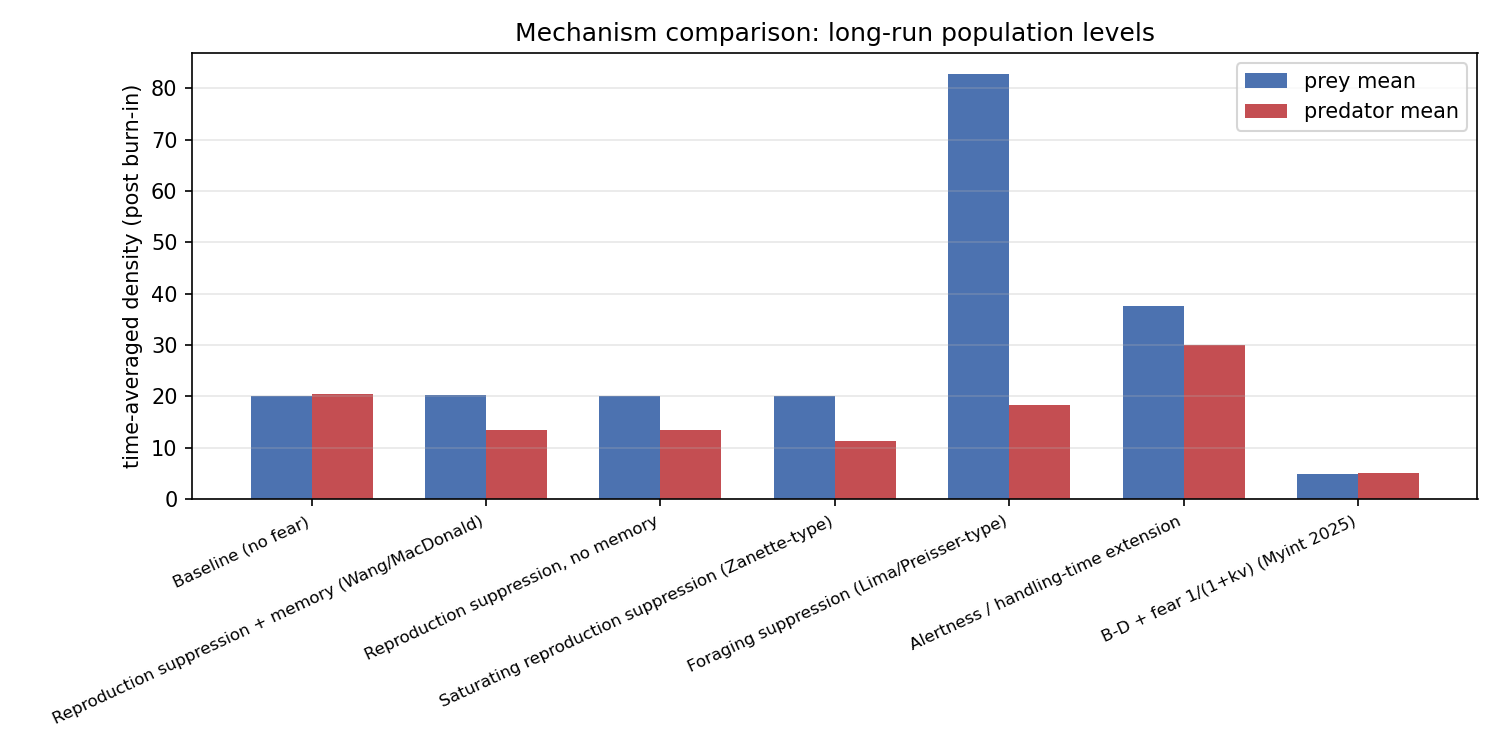
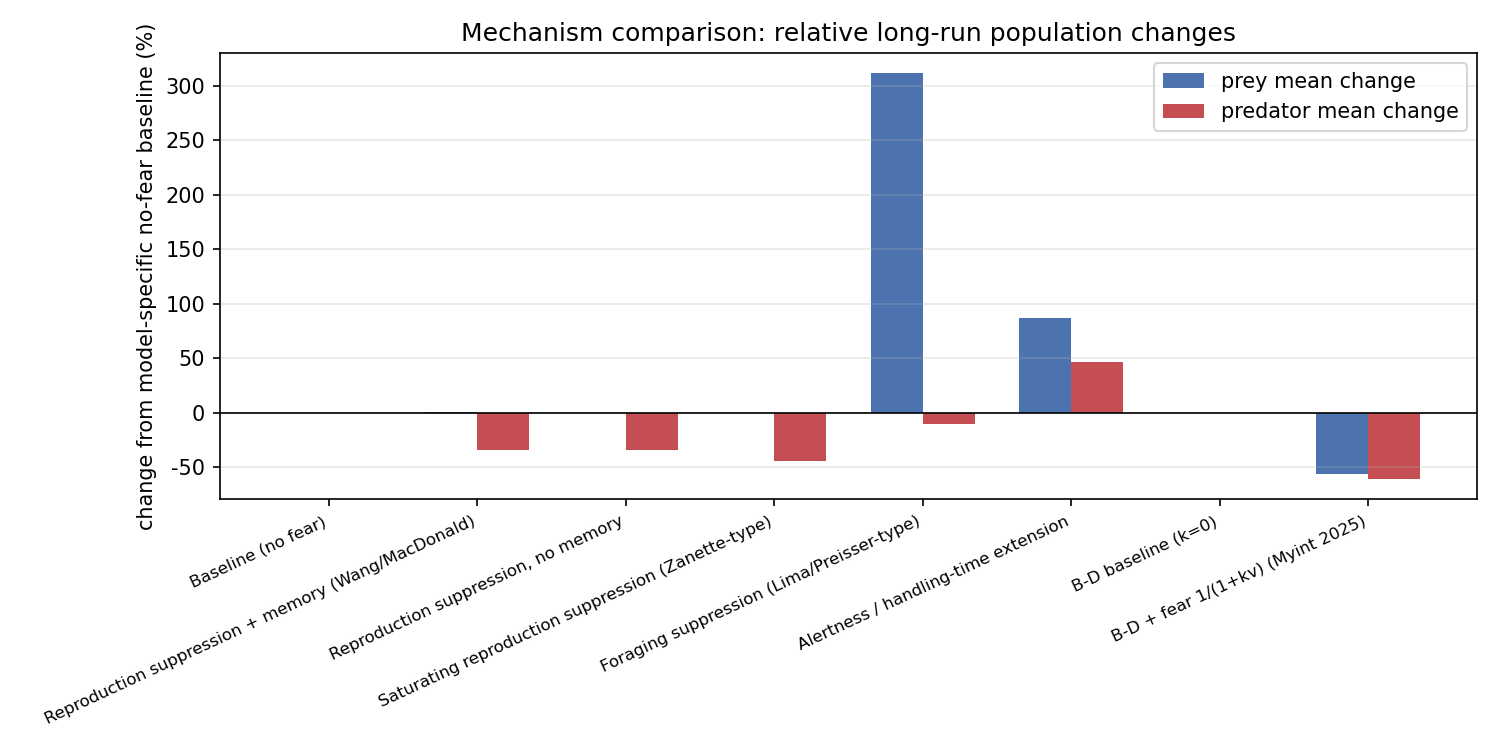
fix(analysis): compare fear mechanisms to model baselines

diff --git a/src/visualize.py b/src/visualize.py
@@ -144,42 +144,42 @@ def plot_mechanism_comparison(
     labels: dict[MechanismId, str],
     out: Path,
 ) -> None:
-    """Literature mechanisms: prey/predator time series."""
-    fig, axes = plt.subplots(2, 1, figsize=(10, 7), sharex=True)
+    """Absolute time series split by model scale; not a cross-family comparison."""
+    fig, axes = plt.subplots(2, 2, figsize=(13, 7), sharex="col")
     for mid, sol in solutions.items():
         lab = labels.get(mid, mid.value)
-        axes[0].plot(sol.t, sol.y[0], lw=1.2, label=lab)
-        axes[1].plot(sol.t, sol.y[1], lw=1.2, label=lab)
-    axes[0].set_ylabel("prey x")
-    axes[0].legend(fontsize=7, loc="upper right")
-    axes[0].grid(True, alpha=0.3)
-    axes[1].set_ylabel("predator y")
-    axes[1].set_xlabel("time t")
-    axes[1].legend(fontsize=7, loc="upper right")
-    axes[1].grid(True, alpha=0.3)
-    fig.suptitle("Literature mechanisms: alternative fear formulations")
+        col = 1 if mid in (MechanismId.BDA_BASELINE, MechanismId.BDA_FEAR) else 0
+        axes[0, col].plot(sol.t, sol.y[0], lw=1.2, label=lab)
+        axes[1, col].plot(sol.t, sol.y[1], lw=1.2, label=lab)
+    for col, family in enumerate(("Holling II (x, y scale)", "B-D (u, v scale)")):
+        axes[0, col].set_title(family)
+        axes[0, col].set_ylabel("prey density")
+        axes[1, col].set_ylabel("predator density")
+        axes[1, col].set_xlabel("time t")
+        for row in range(2):
+            axes[row, col].legend(fontsize=7, loc="best")
+            axes[row, col].grid(True, alpha=0.3)
+    fig.suptitle("Absolute mechanism trajectories (separate model scales)")
     fig.tight_layout()
     fig.savefig(out, dpi=150)
     plt.close(fig)
 
 
 def plot_mechanism_bars(compare_rows: dict[str, list], out: Path) -> None:
-    """Long-run mean density by mechanism."""
+    """Long-run mean changes relative to each model family's no-fear baseline."""
     labels = compare_rows["label"]
     x = np.arange(len(labels))
     w = 0.35
-    x_means = compare_rows["x_mean"]
-    y_means = compare_rows["y_mean"]
+    x_means = compare_rows["x_mean_change_pct"]
+    y_means = compare_rows["y_mean_change_pct"]
     fig, ax = plt.subplots(figsize=(10, 5))
-    ax.bar(x - w / 2, x_means, w, label="prey mean", color="#4C72B0")
-    ax.bar(x + w / 2, y_means, w, label="predator mean", color="#C44E52")
-    for i, ym in enumerate(y_means):
-        if ym < 1.0:
-            ax.text(i + w / 2, max(ym, 0.5), f"ȳ={ym:.2g}", ha="center", va="bottom", fontsize=7, color="#8B0000")
+    ax.bar(x - w / 2, x_means, w, label="prey mean change", color="#4C72B0")
+    ax.bar(x + w / 2, y_means, w, label="predator mean change", color="#C44E52")
+    ax.axhline(0.0, color="black", lw=0.8)
     ax.set_xticks(x)
     ax.set_xticklabels(labels, rotation=25, ha="right", fontsize=8)
-    ax.set_ylabel("time-averaged density (post burn-in)")
-    ax.set_title("Mechanism comparison: long-run population levels")
+    ax.set_ylabel("change from model-specific no-fear baseline (%)")
+    ax.set_title("Mechanism comparison: relative long-run population changes")
     ax.legend()
     ax.grid(True, axis="y", alpha=0.3)
     fig.tight_layout()
@@ -188,11 +188,12 @@ def plot_mechanism_bars(compare_rows: dict[str, list], out: Path) -> None:
 
 
 def plot_amplitude_comparison(compare_rows: dict[str, list], out: Path) -> None:
-    """Prey oscillation amplitude (Wang 2019: fear may damp cycles)."""
+    """Prey relative-amplitude change from each model family's no-fear baseline."""
     fig, ax = plt.subplots(figsize=(9, 4.5))
-    ax.bar(compare_rows["label"], compare_rows["amplitude_x"], color="#55A868")
-    ax.set_ylabel("prey oscillation amplitude (tail max-min)")
-    ax.set_title("Mechanism comparison: prey oscillation amplitude")
+    ax.bar(compare_rows["label"], compare_rows["relative_amplitude_x_change_pct"], color="#55A868")
+    ax.axhline(0.0, color="black", lw=0.8)
+    ax.set_ylabel("change in prey relative amplitude A/mean (%)")
+    ax.set_title("Mechanism comparison: relative oscillation change")
     plt.xticks(rotation=25, ha="right", fontsize=8)
     ax.grid(True, axis="y", alpha=0.3)
     fig.tight_layout()

diff --git a/src/analysis.py b/src/analysis.py
@@ -85,32 +85,81 @@ def compare_mechanisms(
     t_end: float = 100.0,
     mechanisms: tuple[MechanismId, ...] | None = None,
 ) -> dict[str, list]:
-    """比较各文献机制的长期平均密度与动力学类型。"""
+    """按各模型体系自己的无恐惧基线比较长期均值与相对振幅。"""
     if mechanisms is None:
         mechanisms = tuple(MechanismId)
 
     rows: dict[str, list] = {
         "mechanism": [],
         "label": [],
+        "model_family": [],
+        "baseline_mechanism": [],
         "x_mean": [],
         "y_mean": [],
         "status": [],
         "amplitude_x": [],
+        "amplitude_y": [],
+        "relative_amplitude_x": [],
+        "relative_amplitude_y": [],
+        "x_mean_change_pct": [],
+        "y_mean_change_pct": [],
+        "relative_amplitude_x_change_pct": [],
+        "relative_amplitude_y_change_pct": [],
     }
 
     from .parameters import MECHANISM_LABELS
 
-    for mid in mechanisms:
+    def family_and_baseline(mid: MechanismId) -> tuple[str, MechanismId]:
+        if mid in (MechanismId.BDA_BASELINE, MechanismId.BDA_FEAR):
+            return "B-D", MechanismId.BDA_BASELINE
+        return "Holling II", MechanismId.BASELINE
+
+    def metrics(mid: MechanismId) -> dict[str, float | str]:
         sol = run_mechanism(mid, t_span=(0.0, t_end))
         xm, ym = long_term_mean(sol, burn_in_frac=0.35)
         tail = slice(int(sol.t.size * 0.5), None)
         amp_x = float(np.max(sol.y[0, tail]) - np.min(sol.y[0, tail]))
+        amp_y = float(np.max(sol.y[1, tail]) - np.min(sol.y[1, tail]))
+        return {
+            "x_mean": xm,
+            "y_mean": ym,
+            "status": is_extinct(sol),
+            "amplitude_x": amp_x,
+            "amplitude_y": amp_y,
+            "relative_amplitude_x": amp_x / max(abs(xm), 1e-12),
+            "relative_amplitude_y": amp_y / max(abs(ym), 1e-12),
+        }
+
+    needed_baselines = {family_and_baseline(mid)[1] for mid in mechanisms}
+    baseline_metrics = {mid: metrics(mid) for mid in needed_baselines}
+
+    def pct_change(value: float, baseline: float) -> float:
+        if abs(baseline) < 1e-12:
+            return 0.0 if abs(value) < 1e-12 else float("nan")
+        return 100.0 * (value / baseline - 1.0)
+
+    for mid in mechanisms:
+        family, baseline_mid = family_and_baseline(mid)
+        current = metrics(mid)
+        baseline = baseline_metrics[baseline_mid]
         rows["mechanism"].append(mid.value)
         rows["label"].append(MECHANISM_LABELS[mid])
-        rows["x_mean"].append(xm)
-        rows["y_mean"].append(ym)
-        rows["status"].append(is_extinct(sol))
-        rows["amplitude_x"].append(amp_x)
+        rows["model_family"].append(family)
+        rows["baseline_mechanism"].append(baseline_mid.value)
+        for key in (
+            "x_mean",
+            "y_mean",
+            "status",
+            "amplitude_x",
+            "amplitude_y",
+            "relative_amplitude_x",
+            "relative_amplitude_y",
+        ):
+            rows[key].append(current[key])
+        for key in ("x_mean", "y_mean", "relative_amplitude_x", "relative_amplitude_y"):
+            rows[f"{key}_change_pct"].append(
+                pct_change(float(current[key]), float(baseline[key]))
+            )
 
     return rows
 

diff --git a/src/literature.py b/src/literature.py
@@ -19,6 +19,7 @@ from .parameters import (
     MechanismId,
     baseline_default,
     bda_fear_default,
+    bda_no_fear_default,
     fear_default,
     fear_foraging_default,
     fear_handling_default,
@@ -48,6 +49,9 @@ def make_rhs(mid: MechanismId) -> tuple[Callable, np.ndarray]:
     if mid == MechanismId.FEAR_HANDLING:
         p = fear_handling_default
         return lambda t, s: fear_handling_rhs(t, s, p), np.array([x0, y0])
+    if mid == MechanismId.BDA_BASELINE:
+        p = bda_no_fear_default
+        return lambda t, s: bd_fear_rhs(t, s, p), np.array([0.17, 3.9])
     if mid == MechanismId.BDA_FEAR:
         p = bda_fear_default
         return lambda t, s: bd_fear_rhs(t, s, p), np.array([0.17, 3.9])

diff --git a/main.py b/main.py
@@ -119,10 +119,17 @@ def main() -> None:
     )
 
     print("\n机制对照摘要:")
-    for lab, xm, ym, st in zip(
-        cmp["label"], cmp["x_mean"], cmp["y_mean"], cmp["status"]
+    for lab, dx, dy, da, st in zip(
+        cmp["label"],
+        cmp["x_mean_change_pct"],
+        cmp["y_mean_change_pct"],
+        cmp["relative_amplitude_x_change_pct"],
+        cmp["status"],
     ):
-        print(f"  {lab}: x_mean={xm:.2f}, y_mean={ym:.2f}, {st}")
+        print(
+            f"  {lab}: prey mean={dx:+.1f}%, predator mean={dy:+.1f}%, "
+            f"prey A/mean={da:+.1f}%, {st}"
+        )
 
     # --- Myint et al. (2025) B-D + 恐惧模型 ---
     print("\n--- Myint et al. (2025) B-D + 恐惧 ---")

diff --git a/src/parameters.py b/src/parameters.py
@@ -74,6 +74,7 @@ class MechanismId(str, Enum):
     FEAR_SATURATING = "fear_saturating"
     FEAR_FORAGING = "fear_foraging"
     FEAR_HANDLING = "fear_handling"
+    BDA_BASELINE = "bda_baseline"
     BDA_FEAR = "bda_fear"
 
 
@@ -84,6 +85,7 @@ MECHANISM_LABELS: dict[MechanismId, str] = {
     MechanismId.FEAR_SATURATING: "Saturating reproduction suppression (Zanette-type)",
     MechanismId.FEAR_FORAGING: "Foraging suppression (Lima/Preisser-type)",
     MechanismId.FEAR_HANDLING: "Alertness / handling-time extension",
+    MechanismId.BDA_BASELINE: "B-D baseline (k=0)",
     MechanismId.BDA_FEAR: "B-D + fear 1/(1+kv) (Myint 2025)",
 }
 
